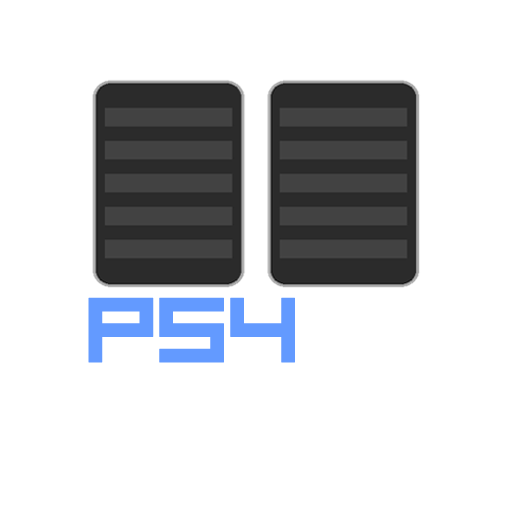
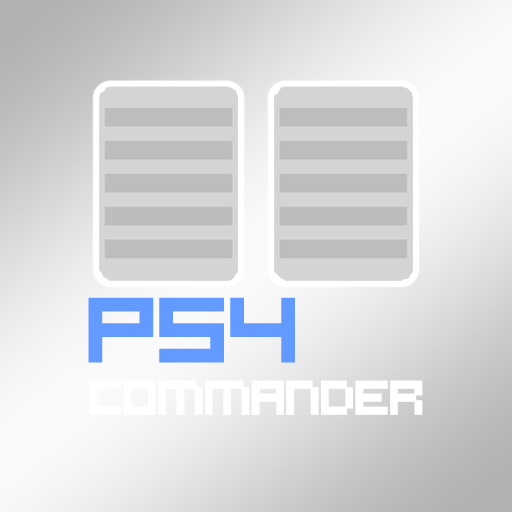
PKG: иконка заменена (светлые панели на сером фоне)
Claude-Session: https://claude.ai/code/session_01JsUWJy7jqZaBPR5tpRjoKm

diff --git a/src/version.h b/src/version.h
@@ -1,4 +1,4 @@
 #pragma once
 // Единственный источник версии. На каждую пересборку увеличивается последняя цифра.
-#define APP_VERSION "0.2.0.75"
+#define APP_VERSION "0.2.0.76"
 #define APP_PORT 8484
